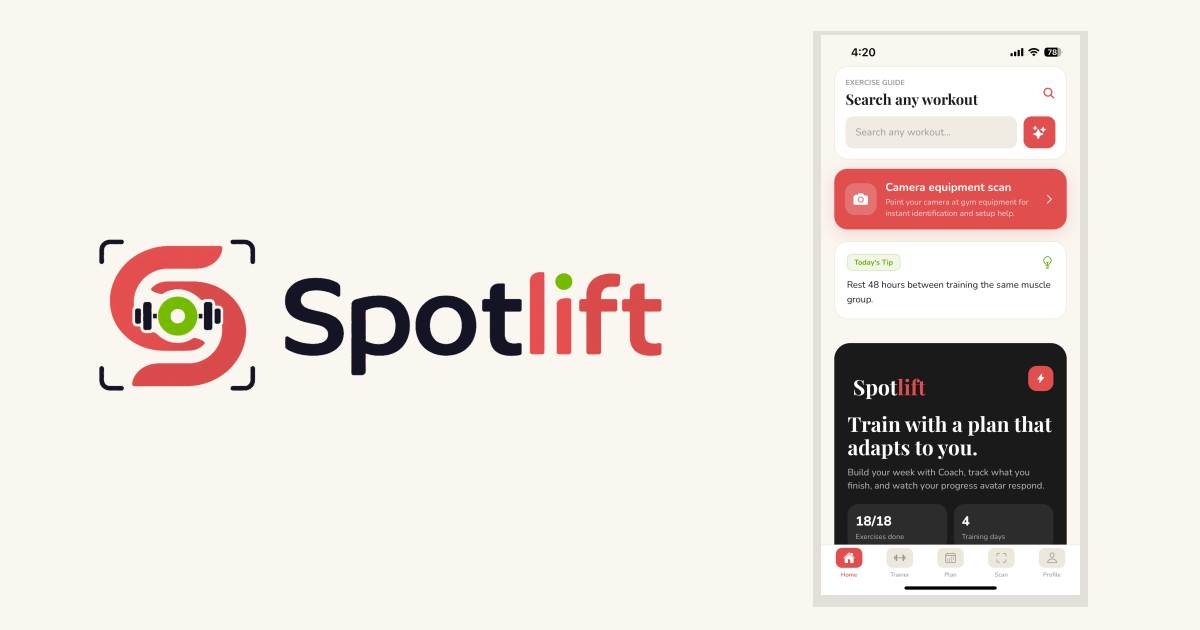
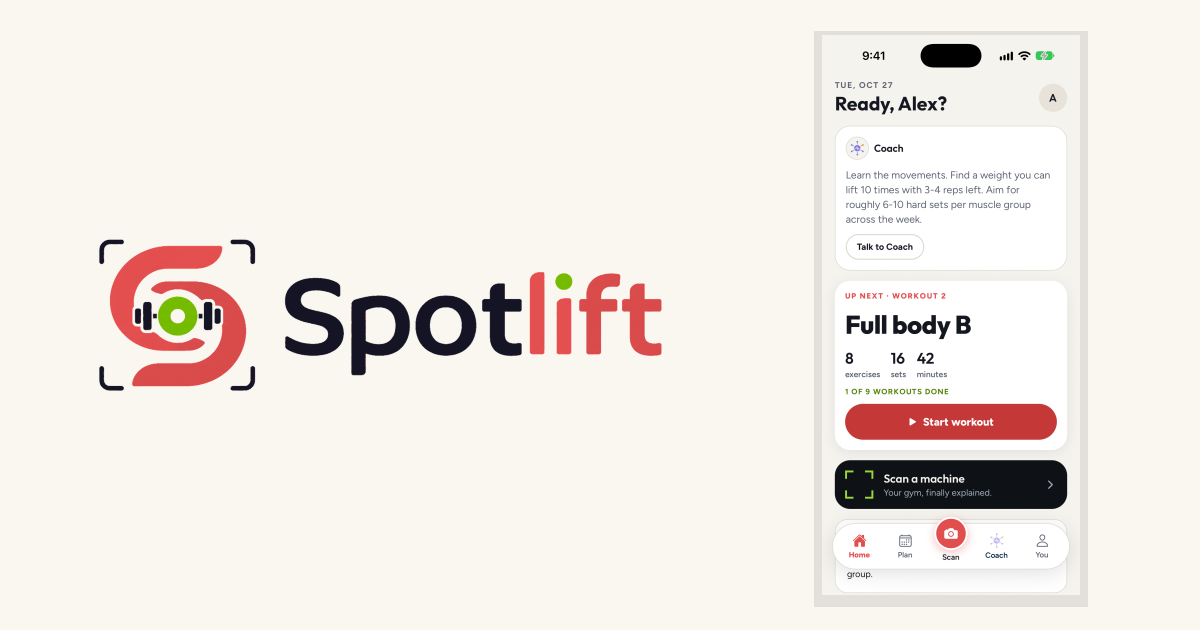
feat(web): fresh home-screen screenshot from the current app on the homepage and link preview

Changed region(s): [[0.6783, 0.1206, 0.8942, 0.9651], [0.7708, 0.0603, 0.8942, 0.1206], [0.7092, 0.0603, 0.74, 0.0905]]

diff --git a/coachlift-web/index.html b/coachlift-web/index.html
@@ -772,7 +772,7 @@
               <img
                 class="phone-screenshot"
                 src="hero-app-screenshot.png"
-                alt="SpotLift app home screen with workout search, camera equipment scan, and training plan"
+                alt="SpotLift app home screen with Coach tips, the next workout in your plan, and machine scanning"
               />
             </div>
           </div>
